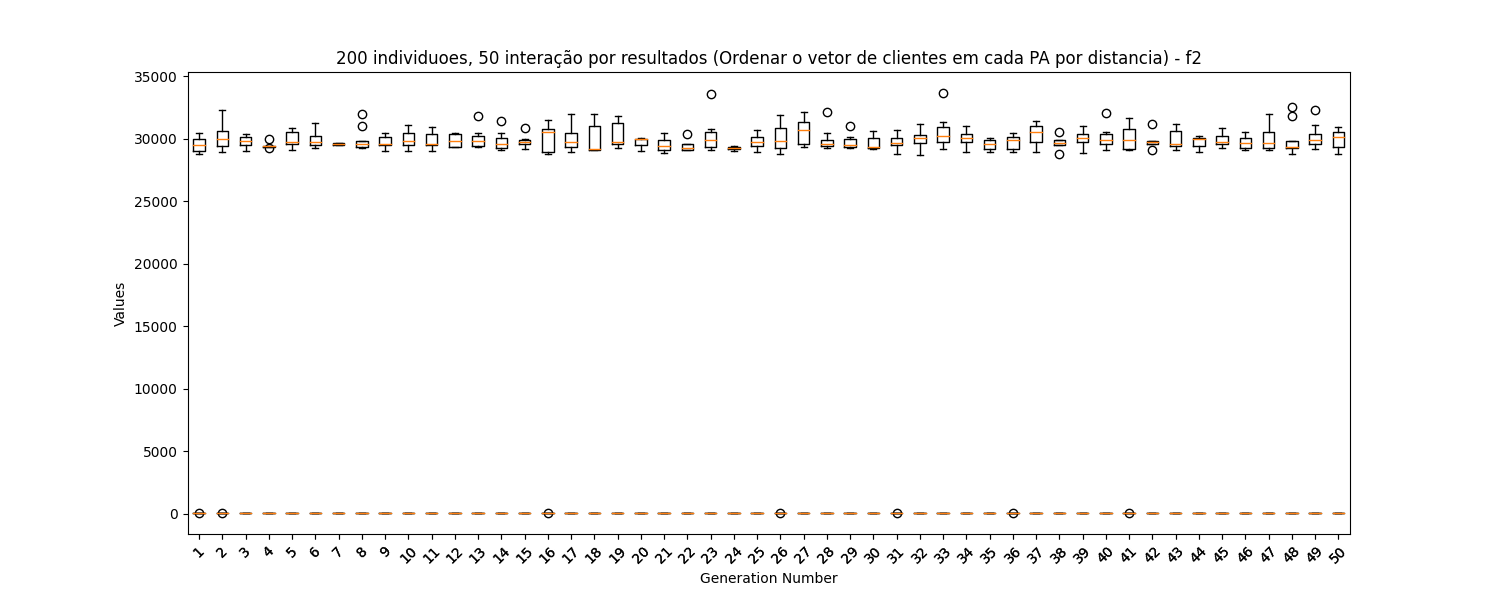
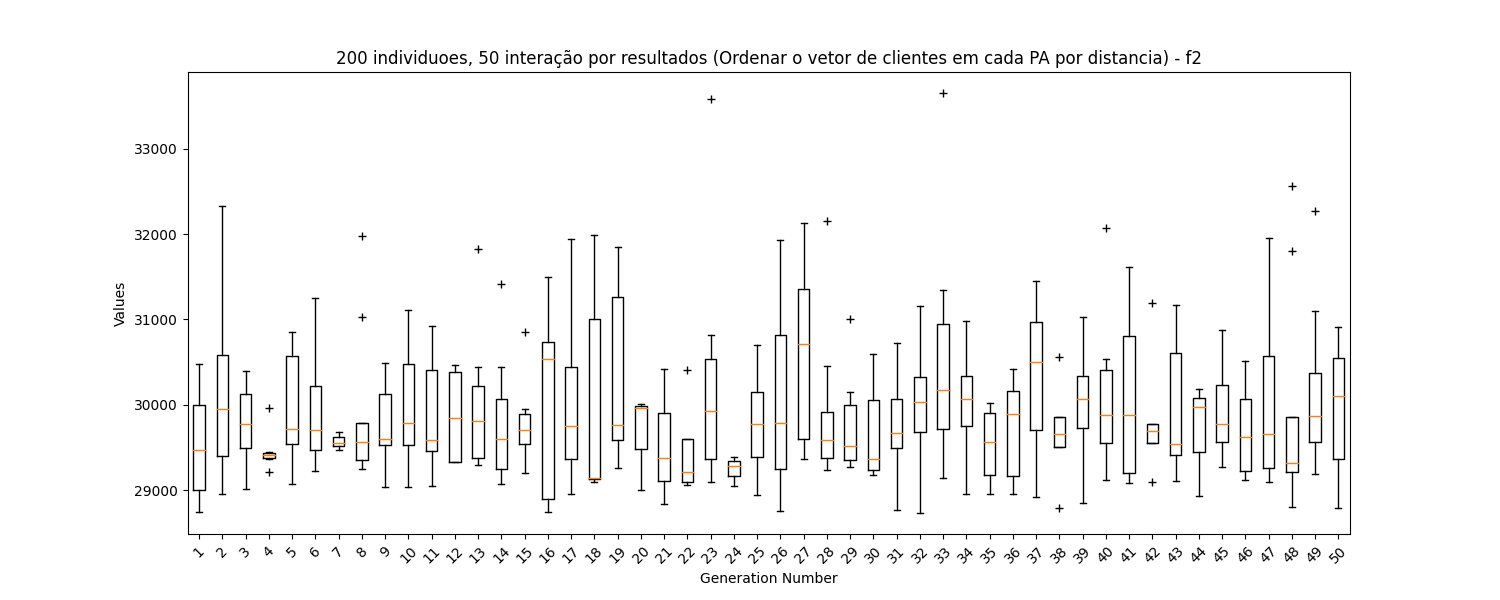
fix plot results

diff --git a/plot_results.py b/plot_results.py
@@ -7,6 +7,10 @@ directory_path = './results'
 
 
 def plot_heuristic(file_name: str):
+    plt.clf()  # Limpa a figura atual
+    plt.cla()  # Limpa os eixos atuais
+    plt.close()  # Fecha a figura atual, liberando recursos
+
     title = ""
     f1s = []
     f2s = []
@@ -34,7 +38,7 @@ def plot_heuristic(file_name: str):
     plt.figure(figsize=(15, 6))
 
     # Plot the boxplot
-    plt.boxplot(f1s, positions=range(1, len(f1s) + 1), bootstrap=5000)
+    plt.boxplot(f1s, positions=range(1, len(f1s) + 1), sym='k+')
     plt.xticks(rotation=45)
     plt.xlabel('Generation Number')
     plt.ylabel('Values')
@@ -42,7 +46,14 @@ def plot_heuristic(file_name: str):
     # plt.show()
     plt.savefig(f'./images/{file_name.replace(".txt", "")}_f1.png')
 
-    plt.boxplot(f2s, positions=range(1, len(f2s) + 1), bootstrap=5000)
+
+    plt.clf()  # Limpa a figura atual
+    plt.cla()  # Limpa os eixos atuais
+    plt.close()  # Fecha a figura atual, liberando recursos
+
+    plt.figure(figsize=(15, 6))
+
+    plt.boxplot(f2s, positions=range(1, len(f2s) + 1), sym='k+')
     plt.xticks(rotation=45)
     plt.xlabel('Generation Number')
     plt.ylabel('Values')
@@ -50,13 +61,19 @@ def plot_heuristic(file_name: str):
     # plt.show()
     plt.savefig(f'./images/{file_name.replace(".txt", "")}_f2.png')
 
-    plt.boxplot([[h] for h in hipervolumes], positions=range(1, len(hipervolumes) + 1), bootstrap=5000)
-    plt.xticks(rotation=45)
-    plt.xlabel('Generation Number')
-    plt.ylabel('Values')
-    plt.title(title.replace("\n", "") + " - hipervolume")
-    # plt.show()
-    plt.savefig(f'./images/{file_name.replace(".txt", "")}_hipervolume.png')
+    plt.clf()  # Limpa a figura atual
+    plt.cla()  # Limpa os eixos atuais
+    plt.close()  # Fecha a figura atual, liberando recursos
+
+    plt.figure(figsize=(15, 6))
+
+    # plt.boxplot([[h] for h in hipervolumes], positions=range(1, len(hipervolumes) + 1), bootstrap=5000)
+    # plt.xticks(rotation=45)
+    # plt.xlabel('Generation Number')
+    # plt.ylabel('Values')
+    # plt.title(title.replace("\n", "") + " - hipervolume")
+    # # plt.show()
+    # plt.savefig(f'./images/{file_name.replace(".txt", "")}_hipervolume.png')
 
 
 if __name__ == '__main__':
